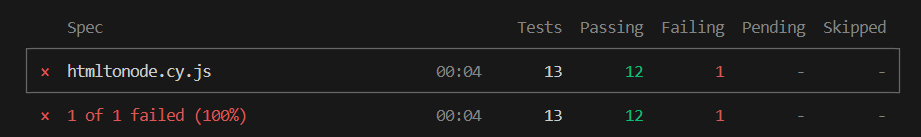
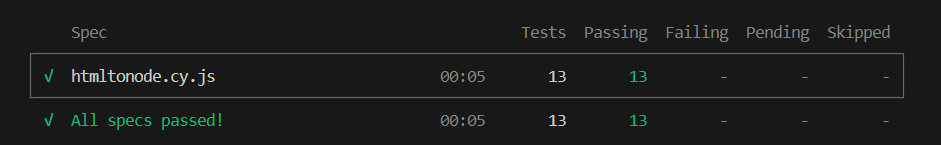
PR-3 Exam

diff --git a/PR– 3 CONVERT HTML TO NODE JS/recipe/recipe.html b/PR– 3 CONVERT HTML TO NODE JS/recipe/recipe.html
@@ -14,9 +14,8 @@
     <label>Cooking Time: <input type="text" name="cookingTime" ></label><br><br>
     <label>Image URL: <input type="text" name="imageUrl" ></label><br><br>
     <label>Country: <input type="text" name="country" ></label><br><br>
-    <label>Vegetarian : 
-      <input type="radio" name="veg" id="" value="true">Yes
-      <input type="radio" name="veg" id="" value="false">No
+    <label>Vegetarian (True / False): 
+      <input type="text" name="veg" >
     </label><br><br>
     <button type="submit">Add Recipe</button>
   </form>

diff --git a/PR– 3 CONVERT HTML TO NODE JS/recipe/index.js b/PR– 3 CONVERT HTML TO NODE JS/recipe/index.js
@@ -96,7 +96,7 @@ app.get("/recipe/filter", (req, res) => {
   let filteredRecipes = initialRecipe;
 
   if (veg) {
-    filteredRecipes = filteredRecipes.filter((recipe) => recipe.veg === veg);
+    filteredRecipes = filteredRecipes.filter((e) => e.veg == veg);
   }
 
   if (country) {
